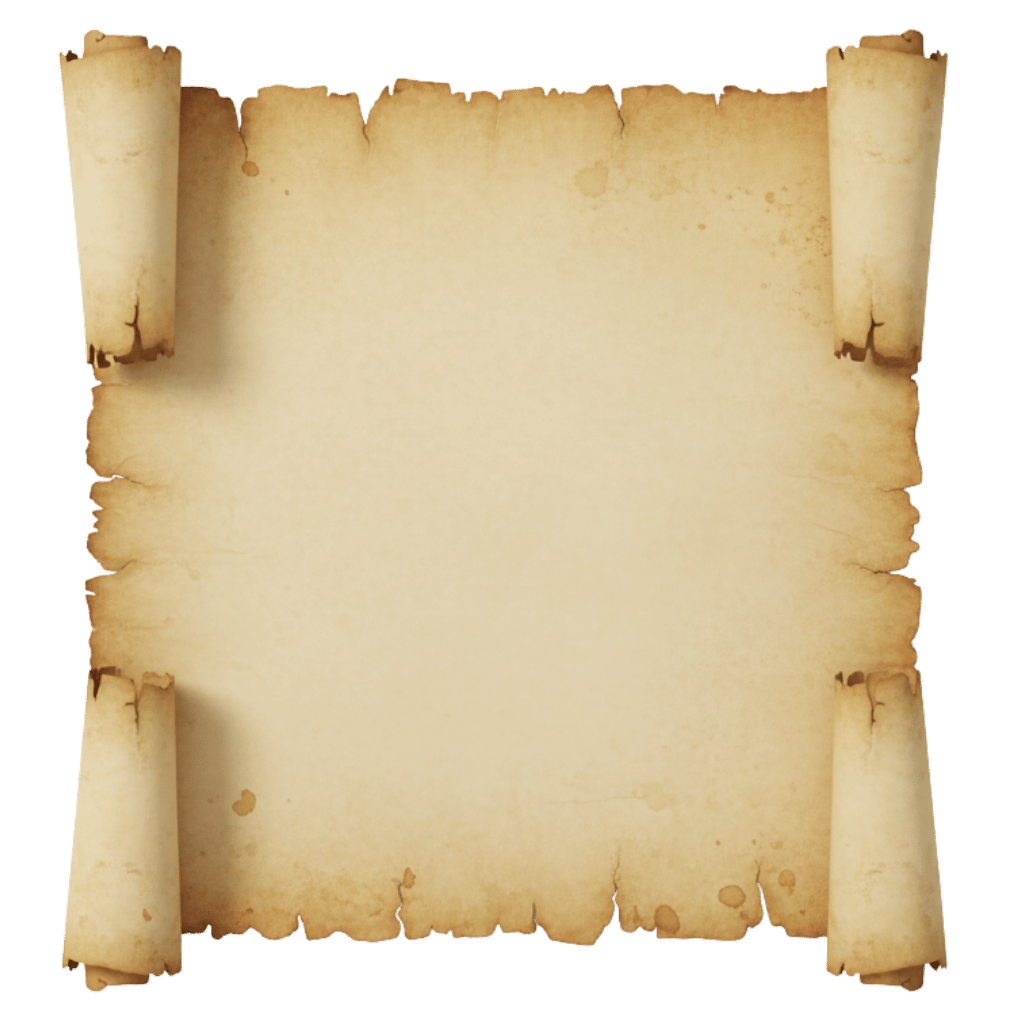
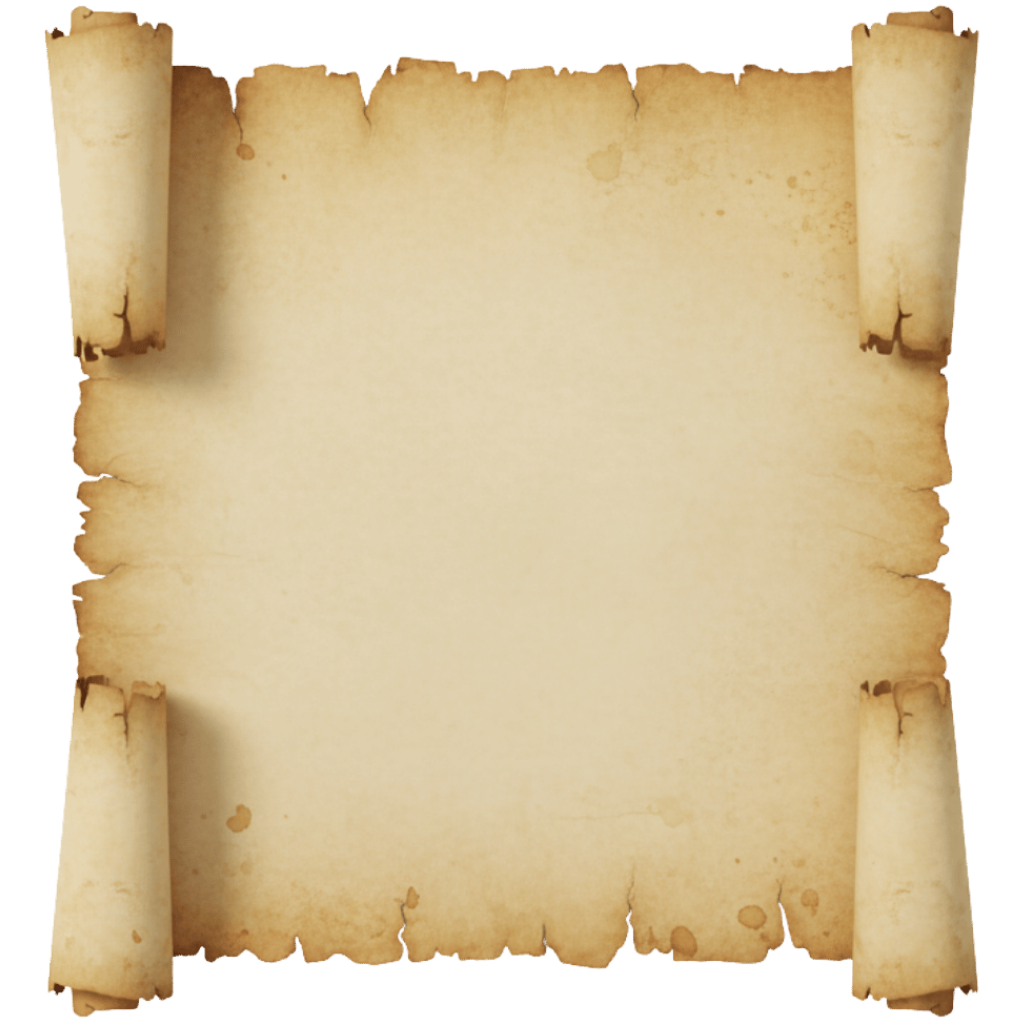
hoodoovoodoo

Changed region(s): [[0.0312, 0.0, 0.9688, 1.0], [0.2188, 0.75, 0.25, 0.8438], [0.5625, 0.1562, 0.5938, 0.1875]]

diff --git a/src/app/components/HoodooVoodooMagick.tsx b/src/app/components/HoodooVoodooMagick.tsx
@@ -214,13 +214,13 @@ const ChargingComponent: React.FC<{
 const Step0_Crossroads: React.FC<{ onSelectPath: (path: RitualPath) => void }> = ({ onSelectPath }) => (
     <div className="relative w-full h-full flex flex-col items-center justify-center">
         <div className="relative z-10 flex flex-row items-center justify-center gap-4 md:gap-16 h-full p-4 w-full max-w-4xl mx-auto">
-            <button onClick={() => onSelectPath('hoodoo')} className="relative w-[45%] h-auto max-h-[80vh] aspect-[40/56] transition-transform duration-300 hover:scale-105 active:scale-95 shadow-xl rounded-lg overflow-hidden border border-amber-900/30">
+            <button onClick={() => onSelectPath('hoodoo')} className="relative w-[45%] h-auto max-h-[80vh] aspect-[40/56] transition-transform duration-300 hover:scale-105 active:scale-95 shadow-xl rounded-lg overflow-hidden border border-amber-900/30 md:scale-80">
                 <Image src={`${ASSET_PATH}/ui-button-hoodoo-path.png`} alt="Hoodoo Rootwork Path Selection Button" layout="fill" objectFit="contain" className="object-cover" />
                 <div className="absolute bottom-0 w-full bg-black/60 backdrop-blur-sm p-2 text-center">
                     <span className="text-amber-100 font-serif text-sm md:text-lg tracking-wider uppercase">Hoodoo</span>
                 </div>
             </button>
-            <button onClick={() => onSelectPath('voodoo')} className="relative w-[45%] h-auto max-h-[80vh] aspect-[40/56] transition-transform duration-300 hover:scale-105 active:scale-95 shadow-xl rounded-lg overflow-hidden border border-amber-900/30">
+            <button onClick={() => onSelectPath('voodoo')} className="relative w-[45%] h-auto max-h-[80vh] aspect-[40/56] transition-transform duration-300 hover:scale-105 active:scale-95 shadow-xl rounded-lg overflow-hidden border border-amber-900/30 md:scale-80">
                 <Image src={`${ASSET_PATH}/ui-button-voodoo-path.png`} alt="Voodoo Lwa Service Path Selection Button" layout="fill" objectFit="contain" className="object-cover" />
                 <div className="absolute bottom-0 w-full bg-black/60 backdrop-blur-sm p-2 text-center">
                     <span className="text-amber-100 font-serif text-sm md:text-lg tracking-wider uppercase">Voodoo</span>
